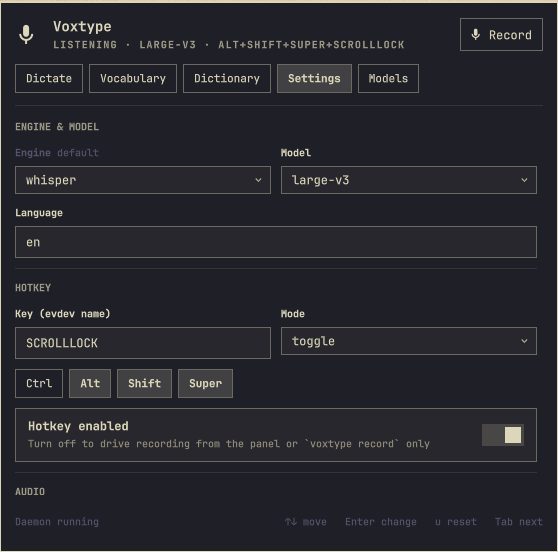
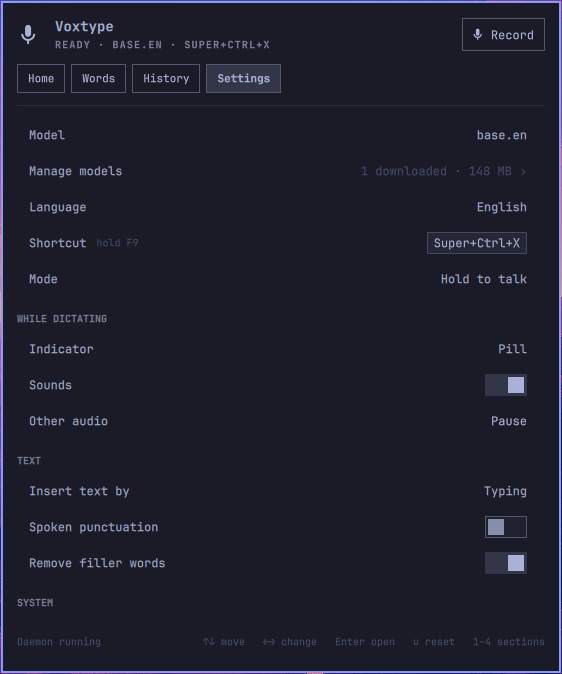
Parity test for every setting and op, indicator colour and frontend controls, docs and screenshots for layout B; bridge tests follow voxtype-tui 0.2's load-time hook wiring

diff --git a/tests/parity.test.js b/tests/parity.test.js
@@ -1,0 +1,92 @@
+// Parity: the layout-B panel must not lose anything the 0.3.2 panel could do.
+//
+// 1. Every setting path the bridge accepts (SETTING_TYPES + EXTRA_SETTING_TYPES)
+//    has a control in Panel.qml, or is reached through a named route below.
+// 2. Every op the 0.3.2 panel sent is still sent, and every bridge op is
+//    either sent by the panel or listed as headless with a reason.
+// 3. Every 0.3.2 key binding is still bound (1–5 became 1–4, by design).
+const {test} = require('node:test');
+const assert = require('node:assert/strict');
+const fs = require('node:fs');
+const path = require('node:path');
+
+const ROOT = path.join(__dirname, '..');
+const panel = fs.readFileSync(path.join(ROOT, 'Panel.qml'), 'utf8');
+const model = fs.readFileSync(path.join(ROOT, 'Model.js'), 'utf8');
+const bridge = fs.readFileSync(path.join(ROOT, 'bridge.py'), 'utf8');
+
+function dictKeys(name) {
+  const m = bridge.match(new RegExp('^' + name + ': dict\\[str, [^\\]]+\\] = \\{([\\s\\S]*?)^\\}', 'm'));
+  assert.ok(m, name + ' not found in bridge.py');
+  return [...m[1].matchAll(/^\s+"([a-z0-9_.-]+)":/gm)].map(x => x[1]);
+}
+
+// Paths with no settingKey of their own, and the control that reaches them.
+const ROUTED = {
+  // Per-engine model paths: Manage models › Set active (models.set_active).
+  'whisper.model': /op: "models\.set_active"/,
+  // The rest of the per-engine model keys share that route; matched below.
+  // Modifier list: the Ctrl/Alt/Shift/Super toggles write hotkey.modifiers.
+  'hotkey.modifiers': /settingKey: "hotkey\.mod\."|"hotkey\.modifiers"/,
+};
+
+test('every bridge setting path has a reachable control', () => {
+  const paths = dictKeys('SETTING_TYPES').concat(dictKeys('EXTRA_SETTING_TYPES'));
+  assert.ok(paths.length > 40, 'parsed ' + paths.length + ' paths');
+  const missing = [];
+  for (const p of paths) {
+    if (ROUTED[p]) { if (!ROUTED[p].test(panel)) missing.push(p + ' (route gone)'); continue; }
+    if (/\.model$/.test(p) && p !== 'vad.model') { if (!/op: "models\.set_active"/.test(panel)) missing.push(p); continue; }
+    const quoted = '"' + p + '"';
+    if (!panel.includes(quoted) && !model.includes(quoted)) missing.push(p);
+  }
+  assert.deepEqual(missing, [], 'setting paths with no control: ' + missing.join(', '));
+});
+
+// Sent by the 0.3.2 panel (git show e15a033:Panel.qml), directly or as a
+// confirmed action.
+const OLD_OPS = ['daemon.restart', 'daemon.start', 'daemon.stop', 'dictionary.preview', 'dict.set_category', 'dict.upsert',
+  'dict.remove', 'export.preview', 'export.write', 'gpu.set_device', 'gpu.status', 'import.apply', 'import.preview', 'load',
+  'models.list', 'models.set_active', 'models.delete', 'options', 'settings.set', 'settings.unset', 'status', 'vocab.add',
+  'vocab.remove'];
+// Bridge ops the panel never sends, and why.
+const HEADLESS = {
+  'record.toggle': 'the panel runs `voxtype record toggle` itself (Service.qml), the op serves the bar/CLI',
+  'vocab.set': 'bulk reorder for scripts; the panel edits one phrase at a time',
+  'archive.pick_dir': 'headless twin of the panel\'s own chooser (Service.pick("dir"))',
+  'learn.everywhere.set': '',  // sent: listed here only if the panel stops sending it
+};
+
+function sends(op) {
+  return panel.includes('op: "' + op + '"') || panel.includes('"' + op + '"');
+}
+
+test('every op the 0.3.2 panel used is still sent', () => {
+  const lost = OLD_OPS.filter(op => !sends(op));
+  assert.deepEqual(lost, []);
+});
+
+test('every bridge op is sent by the panel or documented as headless', () => {
+  const block = bridge.match(/^OPS: dict\[str, Callable\[\[dict, Paths\], dict\[str, Any\]\]\] = \{([\s\S]*?)^\}/m);
+  assert.ok(block, 'OPS table');
+  const ops = [...block[1].matchAll(/^\s+"([a-z_.]+)":/gm)].map(x => x[1]);
+  assert.ok(ops.length >= 40, 'parsed ' + ops.length + ' ops');
+  const unreached = ops.filter(op => !sends(op) && !HEADLESS[op]);
+  assert.deepEqual(unreached, [], 'ops with no panel control: ' + unreached.join(', '));
+});
+
+test('every 0.3.2 key binding is still bound (sections are now 1–4)', () => {
+  const keys = panel.match(/function handleTextKey\(t\) \{[\s\S]*?\n    \}/)[0];
+  // 0.3.2: / search · a add (vocabulary, dictionary) · c category (dictionary)
+  // · d download (models) · o on/off (dictate) · r/R record · u reset
+  // (settings) · y copy the install command (locked).
+  const want = [
+    [/t === "\/"/, '/'], [/t === "a" && page === "words"/, 'a'], [/t === "c" && page === "words"/, 'c'],
+    [/t === "d" && page === "models"/, 'd'], [/t === "o" && page === "home"/, 'o'], [/t === "r" \|\| t === "R"/, 'r'],
+    [/t === "u" && \(page === "settings" \|\| page === "advanced"\)/, 'u'], [/t === "y" && canInstallLocked/, 'y'],
+  ];
+  for (const [re, k] of want) assert.match(keys, re, k);
+  assert.match(panel, /Model\.sectionForKey\(t\)/, 'digits still switch sections');
+  for (const k of ['Qt.Key_R', 'onTabRequested', 'onMoveRequested', 'onActivateRequested', 'onDeleteRequested', 'onCloseRequested'])
+    assert.ok(panel.includes(k), k);
+});

diff --git a/Model.js b/Model.js
@@ -588,7 +588,7 @@ function settingsTargets(config, engine, modelPath) {
         out = out.concat(["whisper.remote_endpoint", "whisper.remote_model", "whisper.remote_timeout_secs"]);
         if (keySet) out.push("remote.clear");
     }
-    out = out.concat(["osd.position", "osd.opacity", "output.notification.on_transcription", "output.notification.on_recording_start",
+    out = out.concat(["osd.position", "osd.opacity", "osd.palette", "osd.frontend", "output.notification.on_transcription", "output.notification.on_recording_start",
                       "output.notification.on_recording_stop", "output.notification.on_no_speech", "output.notification.urgency"]);
     return out.concat(["gpu.device", "gpu.enable", "gpu.disable"]);
 }
@@ -1310,7 +1310,7 @@ var ADVANCED_PATHS = ["engine", "hotkey.key", "hotkey.modifiers", "hotkey.enable
     "output.auto_submit", "text.smart_auto_submit", "output.type_delay_ms", "output.restore_clipboard", "output.shift_enter_newlines",
     "vad.enabled", "vad.threshold", "vad.model", "output.post_process.command", "output.post_process.timeout_ms",
     "whisper.remote_endpoint", "whisper.remote_model", "whisper.remote_timeout_secs", "osd.position", "osd.opacity",
-    "output.notification.on_recording_start", "output.notification.on_recording_stop", "output.notification.on_transcription",
+    "osd.palette", "osd.frontend", "output.notification.on_recording_start", "output.notification.on_recording_stop", "output.notification.on_transcription",
     "output.notification.on_no_speech", "output.notification.urgency"];
 
 // Settings › simple rows, top to bottom (the cursor order). Rows that need

diff --git a/Panel.qml b/Panel.qml
@@ -2187,6 +2187,15 @@ Panel {
                                         options: Model.plainOptions(Model.OSD_POSITIONS) }
                                     SettingSlider { settingKey: "osd.opacity"; label: "Opacity"; width: (parent.width - parent.spacing) / 2; fallback: 0.95 }
                                 }
+                                Row {
+                                    width: parent.width
+                                    spacing: Style.space(10)
+                                    // Unset = the package decides the colours (u resets it).
+                                    SettingDropdown { settingKey: "osd.palette"; label: "Colours"; width: (parent.width - parent.spacing) / 2; fallback: "package"
+                                        options: Model.plainOptions(["omarchy", "package", "fallback", "custom"]) }
+                                    SettingDropdown { settingKey: "osd.frontend"; label: "Drawn by"; width: (parent.width - parent.spacing) / 2; fallback: "gtk4"
+                                        options: Model.plainOptions(["gtk4", "native", "quickshell"]) }
+                                }
 
                                 PanelSeparator { width: parent.width; foreground: root.foreground }
                                 PanelSectionHeader { text: "NOTIFICATIONS"; foreground: root.foreground; fontFamily: root.fontFamily }

diff --git a/tests/test_bridge.py b/tests/test_bridge.py
@@ -1178,7 +1178,11 @@ def test_dict_upsert_wires_post_process(env: Env):
     assert "text.replacements" in res["restart_needed"]
     cfg = env.config_dict()
     assert cfg["text"]["replacements"] == {"vox type": "Voxtype"}
-    assert cfg["output"]["post_process"]["command"] == "voxtype-tui-postprocess"
+    from voxtype_tui import config
+
+    # 0.2 wires an uninstall-safe form (it falls back to `cat`); 0.1.x the bare name.
+    wired = getattr(config, "POSTPROCESS_COMMAND", "voxtype-tui-postprocess")
+    assert cfg["output"]["post_process"]["command"] == wired
     res = env.ok("dict.upsert", **{"from": "vox type", "to": "Voxtype!", "category": "Capitalization"})
     assert res["snapshot"]["replacements"][0]["category"] == "Capitalization"
     assert res["snapshot"]["replacements"][0]["to"] == "Voxtype!"
@@ -3770,7 +3774,9 @@ def test_first_save_wires_capture_hook_on_tui_02(env: Env):
     wires the capture hook, and the reply says the daemon must restart."""
     env.features_json.unlink()
     res = env.ok("vocab.add", phrase="Omarchy")
-    assert "output.pre_recording_command" in res["restart_needed"], res["restart_needed"]
+    # The wiring is reconciled at load time (like a migration), so it is not in
+    # this save's restart_needed diff; the daemon is still marked stale.
+    assert res["daemon_stale"] is True
     hook = env.config_dict()["output"]["pre_recording_command"]
     assert "voxtype-tui" in hook
     feats = env.ok("features.get")

diff --git a/docs/DESIGN.md b/docs/DESIGN.md
@@ -209,40 +209,75 @@ are the plugin's own `EditField.qml`, styled with the same kit tokens (see
 Security rules: the kit's `TextField`/`NumberField` read the clipboard).
 
 **Hero**: mic glyph (accent while recording), title "Voxtype", meta = daemon
-line ("Listening · large-v3 · Super+Ctrl+X" / "Transcribing…" / "Off · model unloaded" /
-"Turning on · loading model…" / "Restart to apply changes"), trailing control = primary action (Record /
-Restart / Turn on).
+line ("Ready · large-v3 · Super+Ctrl+X" / "Listening…" / "Transcribing…" /
+"Off · model unloaded" / "Turning on · loading model…" / "Restart to apply
+changes"), trailing control = primary action (Record / Restart / Turn on). The
+shortcut is the first Hyprland bind from `shortcuts.list` (Omarchy binds
+dictation there), falling back to voxtype's own hotkey when it is enabled.
 
-**Sections** (ButtonGroup, keys `1–5`, `Tab`/`Shift+Tab` cycle):
+**Sections** (ButtonGroup, keys `1–4`, `Tab`/`Shift+Tab` cycle) and drill-ins.
+A drill-in keeps its section's tab lit, shows a breadcrumb ("Settings ›
+Manage models   Esc back"), and `Esc` returns to the section. `Esc` always
+steps out one level: a field, Fix a word, an open dictation, a drill-in, then
+the panel. A click outside the panel still closes it outright.
 
-1. **Dictate** — status card (state, engine+model, hotkey, output mode), big
-   Record toggle, **Turn off / Turn on** (`o`; `daemon.stop` / `daemon.start`,
-   asks first if a dictation is in progress), Restart daemon, missing-model
-   banner, "test a phrase" field showing dictionary-engine output.
-2. **Vocabulary** — search + add field (Enter adds), token meter
-   `n / 224` (amber ≥ 200, urgent ≥ 224), cursor rows with delete action on
-   the cursor row only (`x` → confirm).
-3. **Dictionary** — add row (from → to, category chip), search, rows show
-   `from → to` + category chip; `c` cycles category; `x` deletes (confirm).
-4. **Settings** — grouped: Engine & model (engine dropdown; model dropdown
-   built from `models.list`; language), Hotkey (key, modifier toggles, mode,
-   built-in detect), Audio (device dropdown, max duration, feedback
-   on/theme/volume slider), Output (mode, fallback, auto-submit, smart
-   auto-submit, spoken punctuation, type delay), Voice activity (enable,
-   threshold slider, model path), Post-processing (command, timeout),
-   Remote (endpoint, model, timeout, "API key is set" indicator + Clear;
-   **no key entry field** — point at `VOXTYPE_WHISPER_API_KEY`), GPU
-   (backend text, detected GPUs, device dropdown → drop-in; Enable/Disable
-   acceleration open a terminal running `sudo voxtype setup gpu --enable`
-   after hiding the panel — never a password field). Every restart-sensitive
-   change lights the "Restart to apply" pill; changes are written immediately
-   (no separate Save — the bridge validates each write).
-5. **Models** — engine dropdown, rows `name · size · downloaded/active`,
-   actions: Set active, Download (progress bar + log tail, Cancel), Delete
-   (confirm; refuses active). Backup/Import: **Export…** (scope + include
-   secrets toggle, default `~/Downloads/voxtype-tui-export-YYYY-MM-DD.json`)
-   and **Import…** (hide panel → zenity file chooser → preview diff with
-   dangerous rows highlighted → confirm).
+1. **Home** — the state in one word, "Press <shortcut> and talk · <model>",
+   Record, **Turn off / Turn on** (`o`; `daemon.stop` / `daemon.start`, asks
+   first if a dictation is in progress), Restart, missing-model banner, the
+   year heatmap (52 × 7, accent levels) with today / words / wpm / time saved,
+   the last three dictations (Enter opens them in History) and the "test a
+   phrase" field. `u` → **Usage** drill-in (`usage.summary`): totals, saved
+   time versus `usage.typing_wpm`, hour-of-day bars, per-model counts, the
+   last capture failure from `health`.
+2. **Words** — vocabulary and dictionary rules as one list, sorted by what is
+   written: `heard → written` + a tag (spelling / replace / capitalization).
+   One field adds (`Codemux` → `vocab.add`; `code mucks → Codemux` →
+   `dict.upsert`) and searches. Filter chips, Shift+letter jumps, `c` cycles a
+   rule's category, `x` deletes (confirm). Column heads carry the prompt
+   meter `n / 224` (amber ≥ 200, urgent ≥ 224). Learned entries
+   (`learn.list`) are a separate group that never mixes with the user's own
+   lists and costs no prompt tokens: Enter accept, `p` promote (adds to the
+   user's lists, restart to apply), `x` reject, `d` forget, Reset all.
+3. **History** — `history.list` grouped by day, searchable, paged with
+   `before`. Enter opens a dictation: full text, "heard: …" with the words
+   the rules changed underlined, model · duration · app, **Copy** (`c`),
+   **Delete** (`x`), **Fix a word** (`f`): pick the misheard span (←→, `]`/`[`
+   widen/narrow, Enter), type the right spelling, choose spelling / sounds
+   like / replace, Teach → `learn.submit`. The footer says what was learned
+   or voxtype-tui's reason for learning nothing. The retention line and
+   **Clear all** (confirm) close the list.
+4. **Settings** — simple rows, everyday first: model, Manage models, language
+   (‹ › cycles Whisper ISO codes + auto), shortcut (read-only, from Hyprland),
+   mode; while dictating: indicator, sounds, other audio (pause / lower);
+   text: insert by, spoken punctuation, filler words; system: start at login
+   (`daemon.set_login`); history & usage: count usage, save history, keep for
+   (7 / 30 / 90 / 365 days / forever), archive (folder via the zenity
+   directory chooser, fixed argv); learning: learn from corrections, Learn
+   everywhere (a card that previews exactly which files it writes and that it
+   needs a re-login; nothing is written until Turn on). Drill-ins:
+   - **Manage models** — engine dropdown, rows `name · size · state`: Set
+     active, Download (progress + log tail, Cancel), Delete (confirm; refuses
+     active).
+   - **All Voxtype settings** — the full 0.3.2 Settings page: engine & model,
+     hotkey (key, modifier toggles, mode, enabled), audio (device, max
+     duration, feedback on/theme/volume, other-audio volume), output (mode,
+     fallback, auto-submit, smart auto-submit, type delay, restore clipboard,
+     Shift+Enter newlines), voice activity, post-processing, remote Whisper
+     (endpoint, model, timeout, "API key is set" + Clear; **no key entry
+     field**), indicator details (position, opacity, colours, frontend),
+     notifications, GPU (backend text, device drop-in, Enable/Disable
+     acceleration in a terminal). Its row shows "N changed".
+   - **Backup** — **Export…** (scope + include secrets, default
+     `~/Downloads/voxtype-tui-export-YYYY-MM-DD.json`) and **Import…** (hide
+     panel → zenity chooser → previewed diff, dangerous rows highlighted →
+     confirm).
+   Every restart-sensitive change lights "Restart to apply"; changes are
+   written immediately (no Save — the bridge validates each write).
+
+`tests/parity.test.js` pins that nothing was lost: every setting path the
+bridge accepts has a control, every op the 0.3.2 panel sent is still sent,
+every bridge op is sent or documented as headless, and every 0.3.2 key
+binding is still bound.
 
 **Footer**: left = live notice / error (urgent) / "Saved · restart to apply";
 right = key hints for the current section. Poll `status` every 2 s only
@@ -268,6 +303,14 @@ while the panel is open; the bar button polls the state file
   interpolated into shell. `bash -c` is not used.
 - The remote API key is never read back to QML; the bridge reports only
   `remote_api_key_set`. Clearing is `settings.unset`.
+- Dictation text exists on disk with voxtype-tui 0.2 (its `history.jsonl`,
+  `0600` in a `0700` dir, pruned to the chosen period; written by
+  voxtype-tui, never by the plugin). Only `history.list` returns it to QML,
+  one page of at most `HISTORY_PAGE_MAX` items, inside the normal response
+  cap (`learn.list` returns only the learned word pairs). `status` and
+  `usage.summary` carry no dictation text, and voxtype-tui's sync/export
+  never includes history or learned words. The panel shows it
+  in History and Home and copies it only on an explicit Copy.
 - Sudo-needing actions (GPU enable/disable) are handed to the user's
   terminal; the plugin never prompts for a password.
 - Export defaults `include_secrets=false`; import defaults

diff --git a/README.md b/README.md
@@ -1,14 +1,14 @@
 # Voxtype for Omarchy
 
-A bar widget for **Omarchy Quattro** that manages [Voxtype](https://github.com/peteonrails/voxtype), Omarchy's bundled voice-to-text daemon: record, restart, vocabulary, dictionary rules, every setting, model downloads and backups — without opening `config.toml`.
+A bar widget for **Omarchy Quattro** that manages [Voxtype](https://github.com/peteonrails/voxtype), Omarchy's bundled voice-to-text daemon: record, restart, your words, recent dictations, every setting, model downloads and backups — without opening `config.toml`.
 
-| Dictate | Vocabulary | Dictionary |
+| Home | Words | History |
 |---|---|---|
-| ![Dictate section](docs/images/panel-dictate.png) | ![Vocabulary section](docs/images/panel-vocabulary.png) | ![Dictionary section](docs/images/panel-dictionary.png) |
+| ![Home](docs/images/panel-home.png) | ![Words](docs/images/panel-words.png) | ![History](docs/images/panel-history.png) |
 
-| Settings | Models |
+| Settings | Home › Usage |
 |---|---|
-| ![Settings section](docs/images/panel-settings.png) | ![Models section](docs/images/panel-models.png) |
+| ![Settings](docs/images/panel-settings.png) | ![Usage](docs/images/panel-usage.png) |
 
 ## Install
 
@@ -25,12 +25,12 @@ You need Voxtype itself and the `voxtype-tui` package (AUR: `voxtype-tui`) insta
 ## What the panel does
 
 - **Bar button** with the live daemon state: idle, recording (accent), transcribing, stopped. Left-click opens the panel, right-click toggles recording, middle-click restarts a stale daemon. The tooltip is the hero line.
-- **Dictate** — status card (state, engine + model, hotkey, output mode), Record, **Turn off / Turn on** and Restart buttons, a missing-model banner, and a *test a phrase* field that shows what the dictionary engine would type.
-- **Turn off / Turn on** (`o` on Dictate) stops the Voxtype service so its model leaves your GPU memory (or RAM on CPU) until you turn it back on. It is a plain `systemctl --user stop`: nothing is uninstalled or disabled, so Voxtype still starts at your next login. Turning on reloads the model (a few seconds for a large one). While it is off the hotkey does nothing and Restart will not quietly start it.
-- **Vocabulary** — search/add field (Enter adds), token meter `n / 224` (amber at 200, urgent at 224), delete on the cursor row (`x`, confirmed).
-- **Dictionary** — add `from → to` with a category chip, search, `c` cycles category, `x` deletes (confirmed).
-- **Settings** — engine & model, hotkey (key, modifier chips, mode, enabled), audio (device, max duration, feedback theme/volume), output (mode, fallback, auto-submit, smart auto-submit, spoken punctuation, type delay), voice activity, post-processing, remote Whisper (endpoint, model, timeout, *API key is set* indicator + Clear — the key is never entered or shown here), GPU (backend status, device drop-in, Enable/Disable acceleration handed to your terminal for `sudo`). Changes are written immediately and validated by the bridge; restart-sensitive ones light **Restart to apply**.
-- **Models** — per-engine catalog with size and state, set active, download with progress and log tail (cancellable), delete (confirmed; refuses the active model). **Export…** writes a voxtype-tui bundle (secrets off by default); **Import…** opens a file chooser, previews the diff with dangerous rows highlighted, and asks before applying.
+- **Home** — one word for the state (Ready, Listening, Off, Restart to apply), the shortcut that starts dictation (read from your Hyprland binds, so Omarchy's Super+Ctrl+X / F9 show up), Record, **Turn off / Turn on** and Restart, a missing-model banner, the year of dictations as a small heatmap with four numbers, your last three dictations, and a *test a phrase* field. `u` opens **Usage**: totals, words per minute, time saved versus typing, when you dictate and with which model.
+- **Turn off / Turn on** (`o` on Home) stops the Voxtype service so its model leaves your GPU memory (or RAM on CPU) until you turn it back on. It is a plain `systemctl --user stop`: nothing is uninstalled or disabled, so Voxtype still starts at your next login. Turning on reloads the model (a few seconds for a large one). While it is off the hotkey does nothing and Restart will not quietly start it.
+- **Words** — your vocabulary and dictionary rules in one list, *heard → written*: type `Codemux` to add a word, `code mucks → Codemux` to add a rule; the same field searches. Filter chips, A–Z jump (Shift+letter), `c` cycles a rule between Replacement and Capitalization, `x` deletes (confirmed), and the prompt meter `n / 224` (amber at 200, urgent at 224). Words Voxtype **learned** from your corrections sit in their own group: Enter accepts, `p` adds one to your own words, `x` rejects, `d` forgets.
+- **History** — dictations grouped by day, searchable. Open one to see the full text and, where your rules changed it, what Voxtype heard. **Copy**, **Delete**, **Clear all**, and **Fix a word**: pick the misheard word(s), type the right one, choose spelling / sounds like / replace, and Voxtype uses it from the next dictation on.
+- **Settings** — the everyday rows first (model, language, shortcut, mode, indicator, sounds, other audio while dictating, how text is inserted, spoken punctuation, filler words, start at login, usage / history / archive / learning). Three drill-ins keep everything else one step away: **Manage models** (per-engine catalog, set active, download with progress and log tail, delete), **All Voxtype settings** (engine, hotkey, audio, output, voice activity, post-processing, remote Whisper with an *API key is set* indicator — the key is never entered or shown — indicator details, notifications, GPU) and **Backup** (Export… / Import… with a previewed diff). A drill-in shows how many of its settings you changed. Changes are written immediately and validated by the bridge; restart-sensitive ones light **Restart to apply**.
+- Usage, History and learned words need **voxtype-tui 0.2** or newer; with an older one those parts say so and everything else works as before.
 - Honest states: Voxtype not installed, voxtype-tui missing, installed but not set up (copyable `voxtype setup` hint — never run for you), daemon stopped, stale config, model missing, empty lists, bridge errors in the footer.
 
 ## Which model?
@@ -46,7 +46,7 @@ dictionary on. Your results will vary.
 
 ## Keyboard
 
-`1`–`5` jump to a section, `Tab`/`Shift+Tab` cycle, `↑↓`/`j k` move the cursor, `Enter`/`Space` activate, `←→` nudge sliders, `/` or `Ctrl+F` focus search, `a` add, `c` cycle category, `d` download, `u` reset a setting to its default, `x` delete, `r` toggle recording, `o` turn Voxtype off/on (Dictate), `Ctrl+R` restart the daemon, `Esc` leaves a field, then closes the panel.
+`1`–`4` jump to a section, `Tab`/`Shift+Tab` cycle, `↑↓`/`j k` move the cursor, `Enter`/`Space` activate, `←→` change a setting or nudge a slider, `/` or `Ctrl+F` focus search, `a` add, `c` copy (History) or cycle a rule's category (Words), `f` fix a word, `p` keep a learned word, `d` download (models) or forget (learned), `u` open Usage (Home) or reset a setting to its default, `x` delete, `r` toggle recording, `o` turn Voxtype off/on (Home), `Ctrl+R` restart the daemon. `Esc` steps back one level: out of a field, Fix, an open dictation or a drill-in, then closes the panel.
 
 ## Dependencies
 
@@ -75,8 +75,12 @@ Plugins run unsandboxed inside `omarchy-shell`, so:
   is active, voxtype-tui also checks its local server's health on 127.0.0.1.
   Transcription itself belongs to Voxtype: Qwen3-ASR is local, while a remote
   Whisper endpoint you configure can send audio to that chosen server.
-- It never touches your audio or your transcripts. It edits configuration,
-  vocabulary and dictionary rules, and reads the daemon's state file.
+- It edits configuration, vocabulary and dictionary rules, and reads the
+  daemon's state file. With voxtype-tui 0.2, voxtype-tui keeps a local
+  history of your dictations (text only unless you turn on the archive;
+  files are `0600`, pruned after the period you choose, never synced or
+  exported). The panel reads it only to show History and Usage, and it never
+  leaves the machine. It never records or reads audio itself.
 - Every process is a fixed argv array. Untrusted strings travel over stdin as
   JSON, never through a shell. There is no `shell=True`, `eval` or string-built
   command anywhere in the plugin.
